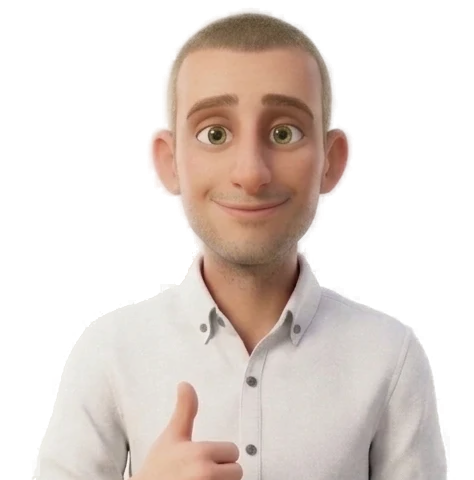
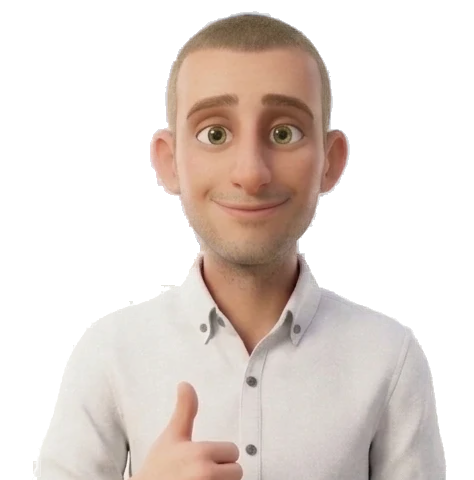
youssef: teach portrait directly on blue - re-matted cutout (eroded edge + white-halo decontamination), head-chest hard crop, bigger, no card

diff --git a/youssef/index.html b/youssef/index.html
@@ -1,4 +1,4 @@
-<!doctype html><html dir="rtl" lang="ar"><head><meta charset="utf-8"><meta name="viewport" content="width=device-width,initial-scale=1"><meta name=color-scheme content='only light'><meta name=supported-color-schemes content='light'><meta name=darkreader-lock><link href="https://fonts.googleapis.com/css2?family=Amiri:wght@400;700&family=Cairo:wght@400;600;700;800;900&display=swap" rel="stylesheet"><link rel="stylesheet" href="style.css?v=20261126y"><title>منصة مستر يوسف | اللغة العربية من أولى ابتدائي لتالتة إعدادي</title><link rel="stylesheet" href="acct.css?v=20261126k"><script src="acct.js?v=20261126k"></script><link rel="stylesheet" href="fx.css?v=20261126k"><script src="fx.js?v=20261126m" defer></script><script>window.MM_INTER={prefix:'my',selectors:{mascot:'img[src*="mr-youssef"]',node:'.circle[data-node]',tile:'.strip .wrap>div'}};window.MM_HEADS=[];</script><script src="intro.js?v=20261126k" defer></script><script src="heads.js?v=20261126k" defer></script><script src="inter.js?v=2" defer></script><script src="bubbles.js?v=20261126k"></script></head><body>
+<!doctype html><html dir="rtl" lang="ar"><head><meta charset="utf-8"><meta name="viewport" content="width=device-width,initial-scale=1"><meta name=color-scheme content='only light'><meta name=supported-color-schemes content='light'><meta name=darkreader-lock><link href="https://fonts.googleapis.com/css2?family=Amiri:wght@400;700&family=Cairo:wght@400;600;700;800;900&display=swap" rel="stylesheet"><link rel="stylesheet" href="style.css?v=20261126z"><title>منصة مستر يوسف | اللغة العربية من أولى ابتدائي لتالتة إعدادي</title><link rel="stylesheet" href="acct.css?v=20261126k"><script src="acct.js?v=20261126k"></script><link rel="stylesheet" href="fx.css?v=20261126k"><script src="fx.js?v=20261126m" defer></script><script>window.MM_INTER={prefix:'my',selectors:{mascot:'img[src*="mr-youssef"]',node:'.circle[data-node]',tile:'.strip .wrap>div'}};window.MM_HEADS=[];</script><script src="intro.js?v=20261126k" defer></script><script src="heads.js?v=20261126k" defer></script><script src="inter.js?v=2" defer></script><script src="bubbles.js?v=20261126k"></script></head><body>
 <nav><div class="wrap"><a class="brand" href="index.html"><span class="dm"><b>ي</b></span>منصة مستر يوسف</a><ul><li><a href="index.html" aria-current="page">الرئيسية</a></li><li><a href="index.html#grades">الصفوف</a></li><li><a href="index.html#how">إزاي بنشرح</a></li><li><a href="index.html#parents">لولي الأمر</a></li></ul><a class="btn" href="track.html?t=g1">ابدأ المذاكرة</a></div></nav>
 
 <div class="hero"><div class="wrap"><div><h1 data-go="track.html?t=g1" role="link" tabindex="0" title="ابدأ المذاكرة">العربي ببساطة،<br><em>من غير وجع دماغ</em></h1><p>منصة مستر يوسف بتشرح اللغة العربية بأسلوب نظيف وواضح: درس قصير، مثال من الحياة، وتمرين على طول. لكل صف من أولى ابتدائي لتالتة إعدادي، وبمتابعة كاملة لولي الأمر.</p><div class="cta"><a class="btn" href="track.html?t=g1">ابدأ من أولى ابتدائي</a><a class="btn alt" href="#how">إزاي بنشرح</a></div></div>
@@ -32,7 +32,7 @@
 </div></section>
 
 <div class="teach" id="about"><div class="wrap">
-<span class="pfig"><img src="assets/img/mr-youssef-thumbsup.png" alt="مستر يوسف"></span>
+<img class="pfig" src="assets/img/mr-youssef-thumbsup.png" alt="مستر يوسف">
 <div><h2 data-go="#grades" role="link" tabindex="0" title="شوف الصفوف">مين مستر يوسف؟</h2><p>مدرس لغة عربية بيحب المادة وبيوصّلها للأطفال بلغتهم: قصة، لعبة، ومثال من يومهم. من أول الحروف في أولى ابتدائي لحد البلاغة في تالتة إعدادي. شخصيته 3D بتواجدك في كل صفحة تسلّم عليك وتشجعك.</p><a class="btn" href="#grades">شوف الصفوف</a></div></div></div>
 
 <section id="parents"><div class="wrap"><div class="sh"><h2 data-go="#grades" role="link" tabindex="0" title="شوف الصفوف">لولي الأمر</h2><p>متابعة هادية من غير ما تحتاج تقف جنب ابنك</p></div><div class="feat" style="grid-template-columns:repeat(3,1fr)">

diff --git a/youssef/track.html b/youssef/track.html
@@ -1,4 +1,4 @@
-<!doctype html><html dir="rtl" lang="ar"><head><meta charset="utf-8"><meta name="viewport" content="width=device-width,initial-scale=1"><meta name=color-scheme content='only light'><meta name=supported-color-schemes content='light'><meta name=darkreader-lock><link href="https://fonts.googleapis.com/css2?family=Amiri:wght@400;700&family=Cairo:wght@400;600;700;800;900&display=swap" rel="stylesheet"><link rel="stylesheet" href="style.css?v=20261126y"><title>أولى ابتدائي | منصة مستر يوسف</title><link rel="stylesheet" href="acct.css?v=20261126k"><script src="acct.js?v=20261126k"></script><link rel="stylesheet" href="fx.css?v=20261126k"><script src="fx.js?v=20261126m" defer></script><script>window.MM_INTER={prefix:'my',selectors:{mascot:'img[src*="mr-youssef"]',node:'.circle[data-node]',tile:'.strip .wrap>div'}};window.MM_HEADS=[];</script><script src="intro.js?v=20261126k" defer></script><script src="heads.js?v=20261126k" defer></script><script src="inter.js?v=2" defer></script><script src="bubbles.js?v=20261126k"></script></head><body><nav><div class="wrap"><a class="brand" href="index.html"><span class="dm"><b>ي</b></span>منصة مستر يوسف</a><ul><li><a href="index.html">الرئيسية</a></li><li><a href="index.html#grades">الصفوف</a></li><li><a href="track.html?t=g1" aria-current="page">الدروس</a></li><li><a href="index.html#about">عن مستر يوسف</a></li></ul><a class="btn" href="track.html?t=g1">ابدأ المذاكرة</a></div></nav>
+<!doctype html><html dir="rtl" lang="ar"><head><meta charset="utf-8"><meta name="viewport" content="width=device-width,initial-scale=1"><meta name=color-scheme content='only light'><meta name=supported-color-schemes content='light'><meta name=darkreader-lock><link href="https://fonts.googleapis.com/css2?family=Amiri:wght@400;700&family=Cairo:wght@400;600;700;800;900&display=swap" rel="stylesheet"><link rel="stylesheet" href="style.css?v=20261126z"><title>أولى ابتدائي | منصة مستر يوسف</title><link rel="stylesheet" href="acct.css?v=20261126k"><script src="acct.js?v=20261126k"></script><link rel="stylesheet" href="fx.css?v=20261126k"><script src="fx.js?v=20261126m" defer></script><script>window.MM_INTER={prefix:'my',selectors:{mascot:'img[src*="mr-youssef"]',node:'.circle[data-node]',tile:'.strip .wrap>div'}};window.MM_HEADS=[];</script><script src="intro.js?v=20261126k" defer></script><script src="heads.js?v=20261126k" defer></script><script src="inter.js?v=2" defer></script><script src="bubbles.js?v=20261126k"></script></head><body><nav><div class="wrap"><a class="brand" href="index.html"><span class="dm"><b>ي</b></span>منصة مستر يوسف</a><ul><li><a href="index.html">الرئيسية</a></li><li><a href="index.html#grades">الصفوف</a></li><li><a href="track.html?t=g1" aria-current="page">الدروس</a></li><li><a href="index.html#about">عن مستر يوسف</a></li></ul><a class="btn" href="track.html?t=g1">ابدأ المذاكرة</a></div></nav>
 <div class="hero th"><div class="wrap"><div><div class="crumbs">الرئيسية ‹ الصفوف ‹ أولى ابتدائي</div><h1 data-go="lesson.html?lesson=1" role="link" tabindex="0" title="ابدأ الدرس الأول">أولى ابتدائي<br><em>اللغة العربية · الترم الأول</em></h1><div class="subj sm">مادة اللغة العربية</div></div><div class="char"><div class="bubble" id="trackBubble">يلا نفتح الدرس ونبدأ</div><img id="trackPose" src="assets/img/mr-youssef-pointup.png" alt="مستر يوسف" style="height:210px"></div></div></div>
 <script>(function(){var b=document.getElementById('trackBubble');if(b)b.textContent=mmBubble('book','start','track');})();</script>
 <section style="padding-top:34px"><div class="wrap"><div class="tabs"><span class="on">الترم الأول</span><span>الترم الثاني (قريبًا)</span></div><div id="units"><p class="load" role="status">جاري تحميل الدروس...</p></div>

diff --git a/youssef/login.html b/youssef/login.html
@@ -1,4 +1,4 @@
-<!doctype html><html dir="rtl" lang="ar"><head><meta charset="utf-8"><meta name="viewport" content="width=device-width,initial-scale=1"><meta name=color-scheme content='only light'><meta name=supported-color-schemes content='light'><meta name=darkreader-lock><link href="https://fonts.googleapis.com/css2?family=Amiri:wght@400;700&family=Cairo:wght@400;600;700;800;900&family=Lalezar&display=swap" rel="stylesheet"><link rel="stylesheet" href="style.css?v=20261126y"><link rel="stylesheet" href="acct.css?v=20261126k"><link rel="stylesheet" href="fx.css?v=20261126k"><script src="acct.js?v=20261126k"></script><script src="fx.js?v=20261126m" defer></script><script>window.MM_INTER={prefix:'my',selectors:{mascot:'img[src*="mr-youssef"]',node:'.circle[data-node]',tile:'.strip .wrap>div'}};window.MM_HEADS=[];</script><script src="intro.js?v=20261126k" defer></script><script src="heads.js?v=20261126k" defer></script><script src="inter.js?v=2" defer></script><title>دخول | منصة مستر يوسف</title></head><body><nav><div class="wrap"><a class="brand" href="index.html"><span class="dm"><b>ي</b></span>منصة مستر يوسف</a><ul><li><a href="index.html">الرئيسية</a></li><li><a href="index.html#grades">الصفوف</a></li><li><a href="track.html?t=g1">الدروس</a></li><li><a href="index.html#about">عن مستر يوسف</a></li></ul><a class="btn" href="track.html?t=g1">ابدأ المذاكرة</a></div></nav>
+<!doctype html><html dir="rtl" lang="ar"><head><meta charset="utf-8"><meta name="viewport" content="width=device-width,initial-scale=1"><meta name=color-scheme content='only light'><meta name=supported-color-schemes content='light'><meta name=darkreader-lock><link href="https://fonts.googleapis.com/css2?family=Amiri:wght@400;700&family=Cairo:wght@400;600;700;800;900&family=Lalezar&display=swap" rel="stylesheet"><link rel="stylesheet" href="style.css?v=20261126z"><link rel="stylesheet" href="acct.css?v=20261126k"><link rel="stylesheet" href="fx.css?v=20261126k"><script src="acct.js?v=20261126k"></script><script src="fx.js?v=20261126m" defer></script><script>window.MM_INTER={prefix:'my',selectors:{mascot:'img[src*="mr-youssef"]',node:'.circle[data-node]',tile:'.strip .wrap>div'}};window.MM_HEADS=[];</script><script src="intro.js?v=20261126k" defer></script><script src="heads.js?v=20261126k" defer></script><script src="inter.js?v=2" defer></script><title>دخول | منصة مستر يوسف</title></head><body><nav><div class="wrap"><a class="brand" href="index.html"><span class="dm"><b>ي</b></span>منصة مستر يوسف</a><ul><li><a href="index.html">الرئيسية</a></li><li><a href="index.html#grades">الصفوف</a></li><li><a href="track.html?t=g1">الدروس</a></li><li><a href="index.html#about">عن مستر يوسف</a></li></ul><a class="btn" href="track.html?t=g1">ابدأ المذاكرة</a></div></nav>
 <div class="acc"><div class="auth-grid"><div class="panel"><h1 id="ttl" data-go="index.html" role="link" tabindex="0" title="الصفحة الرئيسية">أهلًا بيك</h1><p class="sub">تقدمك بيتحفظ في حسابك بس، وتكمل من أي جهاز.</p>
 <div class="seg"><button type="button" id="tin" class="on">دخول</button><button type="button" id="tup">حساب جديد</button></div>
 <div class="hint" id="need" hidden>لازم تسجل دخولك الأول علشان نفتح الدرس ونحفظ تقدمك. التسجيل بياخد دقيقة.</div><form id="f" novalidate><div class="fld" id="nm" hidden><label for="n">اسمك</label><input id="n" autocomplete="name" maxlength="60" placeholder="مثال: أحمد محمد"></div>

diff --git a/youssef/profile.html b/youssef/profile.html
@@ -1,4 +1,4 @@
-<!doctype html><html dir="rtl" lang="ar"><head><meta charset="utf-8"><meta name="viewport" content="width=device-width,initial-scale=1"><meta name=color-scheme content='only light'><meta name=supported-color-schemes content='light'><meta name=darkreader-lock><link href="https://fonts.googleapis.com/css2?family=Amiri:wght@400;700&family=Cairo:wght@400;600;700;800;900&family=Cairo&display=swap" rel="stylesheet"><link rel="stylesheet" href="style.css?v=20261126y"><link rel="stylesheet" href="acct.css?v=20261126k"><link rel="stylesheet" href="fx.css?v=20261126k"><script src="acct.js?v=20261126k"></script><script src="fx.js?v=20261126m" defer></script><script>window.MM_INTER={prefix:'my',selectors:{mascot:'img[src*="mr-youssef"]',node:'.circle[data-node]',tile:'.strip .wrap>div'}};window.MM_HEADS=[];</script><script src="intro.js?v=20261126k" defer></script><script src="heads.js?v=20261126k" defer></script><script src="inter.js?v=2" defer></script><title>حسابي | منصة مستر يوسف</title></head><body><nav><div class="wrap"><a class="brand" href="index.html"><span class="dm"><b>ي</b></span>منصة مستر يوسف</a><ul><li><a href="index.html">الرئيسية</a></li><li><a href="index.html#grades">الصفوف</a></li><li><a href="track.html?t=g1">الدروس</a></li><li><a href="index.html#about">عن مستر يوسف</a></li></ul><a class="btn" href="track.html?t=g1">ابدأ المذاكرة</a></div></nav>
+<!doctype html><html dir="rtl" lang="ar"><head><meta charset="utf-8"><meta name="viewport" content="width=device-width,initial-scale=1"><meta name=color-scheme content='only light'><meta name=supported-color-schemes content='light'><meta name=darkreader-lock><link href="https://fonts.googleapis.com/css2?family=Amiri:wght@400;700&family=Cairo:wght@400;600;700;800;900&family=Cairo&display=swap" rel="stylesheet"><link rel="stylesheet" href="style.css?v=20261126z"><link rel="stylesheet" href="acct.css?v=20261126k"><link rel="stylesheet" href="fx.css?v=20261126k"><script src="acct.js?v=20261126k"></script><script src="fx.js?v=20261126m" defer></script><script>window.MM_INTER={prefix:'my',selectors:{mascot:'img[src*="mr-youssef"]',node:'.circle[data-node]',tile:'.strip .wrap>div'}};window.MM_HEADS=[];</script><script src="intro.js?v=20261126k" defer></script><script src="heads.js?v=20261126k" defer></script><script src="inter.js?v=2" defer></script><title>حسابي | منصة مستر يوسف</title></head><body><nav><div class="wrap"><a class="brand" href="index.html"><span class="dm"><b>ي</b></span>منصة مستر يوسف</a><ul><li><a href="index.html">الرئيسية</a></li><li><a href="index.html#grades">الصفوف</a></li><li><a href="track.html?t=g1">الدروس</a></li><li><a href="index.html#about">عن مستر يوسف</a></li></ul><a class="btn" href="track.html?t=g1">ابدأ المذاكرة</a></div></nav>
 <div class="acc"><div class="panel" id="box"><h1 data-go="track.html" role="link" tabindex="0" title="صفحتي ودروسي">حسابي</h1><p class="sub" id="who">ثواني...</p>
 <div id="guestbox" hidden><div class="hint">لازم تسجل دخولك علشان تشوف تقدمك. تقدمك بيتحفظ في حسابك بس.</div><a class="pbtn" href="login.html?mode=up&next=profile.html" style="text-align:center;text-decoration:none">اعمل حساب أو سجّل دخول</a></div>
 <div class="sts"><div><b id="s1">٠</b><span>نقاطي</span></div><div><b id="s2">٠</b><span>أيام متتالية</span></div><div><b id="s3">٠</b><span>أسئلة خلّصتها</span></div></div>

diff --git a/youssef/style.css b/youssef/style.css
@@ -62,8 +62,7 @@ section{padding:56px 0}
 .demo .bb b{color:var(--primary)}
 .teach{background:var(--primary);color:#fffdf2;border-top:4px solid var(--ink);border-bottom:4px solid var(--ink)}
 .teach .wrap{display:grid;grid-template-columns:.7fr 1.3fr;gap:30px;align-items:center;padding-top:48px;padding-bottom:48px}
-.teach .pfig{display:block;background:var(--paper);border:2.5px solid var(--ink);border-radius:16px 20px 14px 22px/20px 16px 22px 14px;overflow:hidden;width:100%}
-.teach .pfig img{width:100%;display:block}
+.teach .pfig{display:block;width:100%;max-width:340px;margin:0 auto}
 .teach h2{font-weight:900;font-size:36px;color:var(--accent);margin-bottom:8px}
 .teach p{line-height:2;font-size:17px;margin-bottom:16px}
 .grp{background:#f5eeda;border-top:2px solid var(--ink);padding:12px 16px;text-align:center;font-size:13px}
@@ -84,7 +83,7 @@ footer .fl{display:flex;gap:18px;justify-content:center;margin-bottom:10px;font-
  .strip .wrap{grid-template-columns:repeat(2,1fr)}
  .rows,.feat{grid-template-columns:1fr}
  .row{padding:12px 12px;gap:10px}.row .btn{display:none}.row .chip{font-size:11px;padding:2px 8px}
- .teach .wrap{grid-template-columns:1fr}.teach svg{height:190px}.teach .pfig{width:min(74%,320px);margin:0 auto 4px}
+ .teach .wrap{grid-template-columns:1fr}.teach svg{height:190px}.teach .pfig{width:min(86%,330px)}
  .sh h2,.teach h2{font-size:28px}
  .demo svg{height:90px}.demo .bb{font-size:13.5px;padding:10px 14px}
 }
